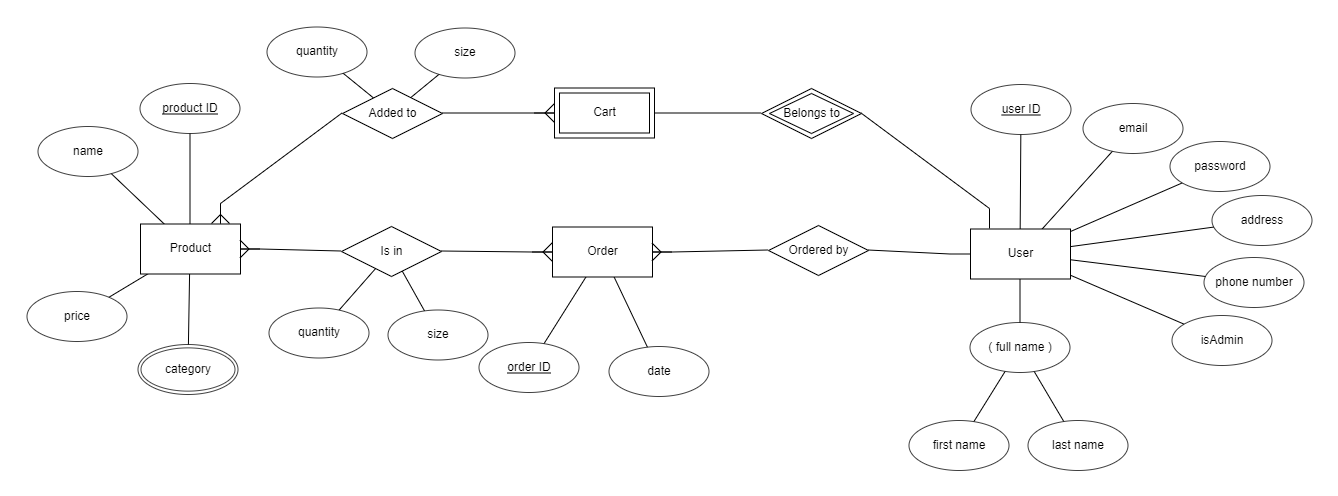
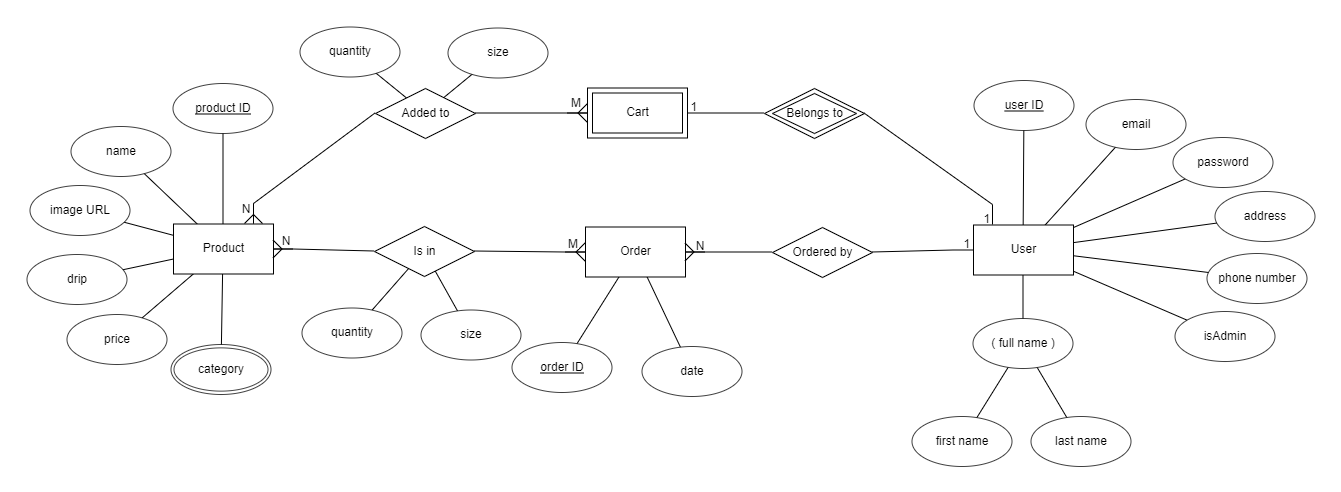
Fixing ERD diagramas, updating with 7th meeting

diff --git a/specification/Projektterv.md b/specification/Projektterv.md
@@ -228,6 +228,19 @@ Hetente ülésezünk, megbeszéljük az elmúlt héten felmerülő problémákat
  	* Rózsa Patrik
  - Érintett témák: Második mérföldkőre készített diagrammok ellenőrzése és feltöltése, hosting, oldal vázának felállítása
 
+ 7\. megbeszélés:
+ - Időpont: 2021.10.28.
+ - Hely: Discord
+ - Résztvevők:
+  	* Katona Ádám
+ 	* Pál Szilárd
+ 	* Györök Gábor
+ 	* Kabók Dániel Tibor
+ 	* Gyarmati Patrik
+ 	* Kücüktüfekci Cengiz Etem
+ 	* Rózsa Patrik
+ - Érintett témák: Diagrammok kijavítása, prototípus felépítésének előkészítése
+
 ### 7.3. Minőségbiztosítás
 
 Az elkészült terveket a terveken nem dolgozó csapattársak közül átnézik, hogy megfelel-e a specifikációnak és az egyes diagramtípusok összhangban vannak-e egymással. A meglévő rendszerünk helyes működését a prototípusok bemutatása előtt a tesztelési dokumentumban leírtak végrehajtása alapján ellenőrizzük és összevetjük a specifikációval, hogy az elvárt eredményt kapjuk-e. További tesztelési lehetőségek: unit tesztek írása az egyes modulokhoz vagy a kód közös átnézése (code review) egy, a vizsgált modul programozásában nem résztvevő csapattaggal. Szoftverünk minőségét a végső leadás előtt javítani kell a rendszerünkre lefuttatott kódelemzés során kapott metrikaértékek és szabálysértések figyelembevételével.
